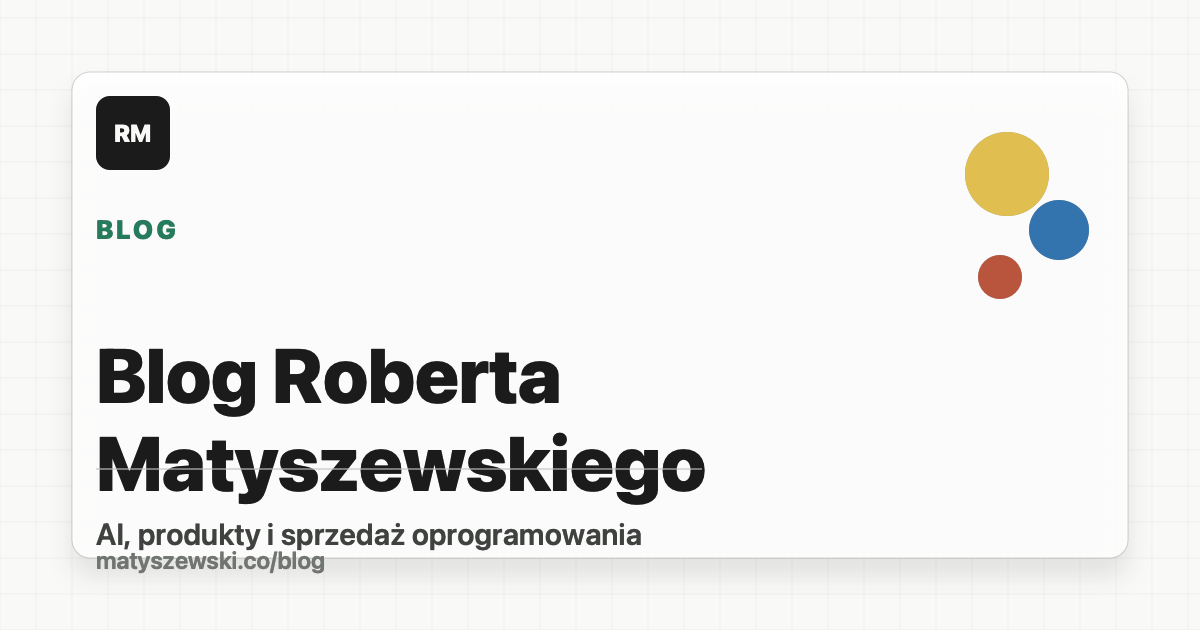
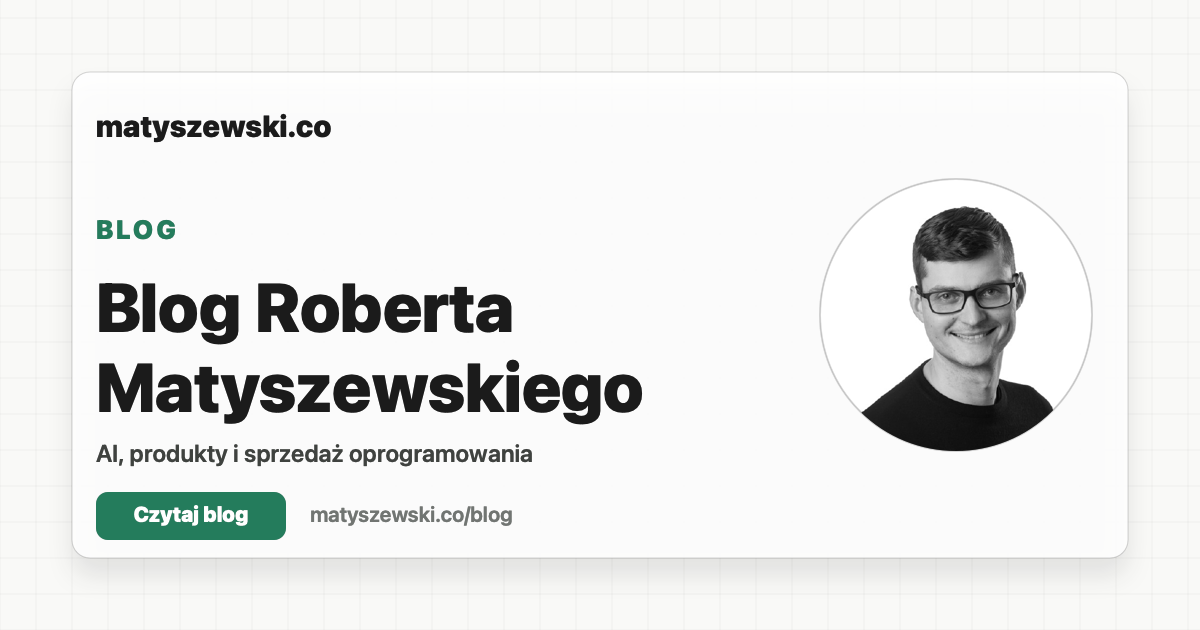
Ulepsz karty Open Graph bloga
## Nowe pliki:
- "robert-matyszewski-profile.png" - lokalne zdjęcie profilowe używane przez generator kart.

## Zmodyfikowane:
- "generate-blog-preview.swift" - usuwa etykietę i opisy z kart wpisów, dodaje domenę, większy portret oraz CTA w wyrównanym układzie.
- "blog-preview oraz karty wpisów" - przegenerowane pliki PNG i SVG w rozmiarze 1200x630.

Statystyki: +1 nowy, ~7 zmodyfikowanych, -0 usuniętych

Changed region(s): [[0.0617, 0.4524, 0.5858, 0.9048], [0.7092, 0.2111, 0.925, 0.7238], [0.0617, 0.1508, 0.2775, 0.2714]]

diff --git a/scripts/generate-blog-preview.swift b/scripts/generate-blog-preview.swift
@@ -258,15 +258,26 @@ func svgTextLines(_ lines: [String], fontSize: Int, top: Int, spacing: Int) -> S
     }.joined(separator: "\n")
 }
 
-func generateSocialCard(title: String, description: String, outputBaseName: String, footerUrl: String, label: String = "BLOG") throws {
+func generateSocialCard(
+    title: String,
+    description: String,
+    outputBaseName: String,
+    footerUrl: String,
+    label: String? = "BLOG",
+    showsSubtitle: Bool = true
+) throws {
     let lines = titleLines(title)
-    let fontSize = lines.count >= 3 ? 54 : 76
-    let firstTextTop = lines.count >= 3 ? 274 : 330
-    let lineSpacing = lines.count >= 3 ? 62 : 88
-    let dividerTop = lines.count >= 3 ? 472 : 468
-    let descriptionTop = lines.count >= 3 ? 494 : 516
-    let footerTop = lines.count >= 3 ? 528 : 546
-    let subtitle = shortDescription(description)
+    let fontSize = lines.count >= 3 ? 54 : (lines.count == 2 ? 68 : 76)
+    let firstTextTop: Int
+    if showsSubtitle {
+        firstTextTop = lines.count >= 3 ? 274 : (lines.count == 2 ? 266 : 326)
+    } else {
+        firstTextTop = lines.count >= 3 ? 222 : (lines.count == 2 ? 235 : 277)
+    }
+    let lineSpacing = lines.count >= 3 ? 62 : 80
+    let ctaTop = showsSubtitle ? 492 : 482
+    let subtitle = showsSubtitle ? shortDescription(description) : nil
+    let profileImageName = "robert-matyszewski-profile.png"
 
     let svg = """
 <svg xmlns="http://www.w3.org/2000/svg" width="1200" height="630" viewBox="0 0 1200 630">
@@ -277,21 +288,23 @@ func generateSocialCard(title: String, description: String, outputBaseName: Stri
     <filter id="shadow" x="-20%" y="-20%" width="140%" height="140%">
       <feDropShadow dx="0" dy="20" stdDeviation="24" flood-color="#151515" flood-opacity="0.14"/>
     </filter>
+    <clipPath id="profile-clip">
+      <circle cx="956" cy="315" r="136"/>
+    </clipPath>
   </defs>
 
   <rect width="1200" height="630" fill="#f8f8f5"/>
   <rect width="1200" height="630" fill="url(#grid)"/>
   <rect x="72" y="72" width="1056" height="486" rx="18" fill="#ffffff" fill-opacity="0.88" stroke="#151515" stroke-opacity="0.14" filter="url(#shadow)"/>
-  <rect x="96" y="96" width="74" height="74" rx="14" fill="#151515"/>
-  <text x="133" y="143" fill="#f8f8f5" font-family="Inter, Arial, sans-serif" font-size="24" font-weight="800" text-anchor="middle">RM</text>
-  <text x="96" y="236" fill="#1f6b4a" font-family="Inter, Arial, sans-serif" font-size="26" font-weight="800" letter-spacing="3">\(escapeHtml(label))</text>
+  <text x="96" y="142" fill="#151515" font-family="Inter, Arial, sans-serif" font-size="30" font-weight="800">matyszewski.co</text>
+  <image href="\(profileImageName)" x="820" y="179" width="272" height="272" preserveAspectRatio="xMidYMid slice" clip-path="url(#profile-clip)"/>
+  <circle cx="956" cy="315" r="136" fill="none" stroke="#151515" stroke-opacity="0.14" stroke-width="2"/>
+\(label.map { ##"  <text x="96" y="236" fill="#1f6b4a" font-family="Inter, Arial, sans-serif" font-size="26" font-weight="800" letter-spacing="3">\##(escapeHtml($0))</text>"## } ?? "")
 \(svgTextLines(lines, fontSize: fontSize, top: firstTextTop, spacing: lineSpacing))
-  <rect x="96" y="\(dividerTop)" width="606" height="1" fill="#d8ddd6"/>
-  <text x="96" y="\(descriptionTop)" fill="#303330" font-family="Inter, Arial, sans-serif" font-size="30" font-weight="600">\(escapeHtml(subtitle))</text>
-  <text x="96" y="\(footerTop)" fill="#5e625f" font-family="Inter, Arial, sans-serif" font-size="24" font-weight="600">\(escapeHtml(footerUrl))</text>
-  <circle cx="1007" cy="174" r="42" fill="#d8b23f"/>
-  <circle cx="1059" cy="230" r="30" fill="#285f9f"/>
-  <circle cx="1000" cy="277" r="22" fill="#a9412f"/>
+\(subtitle.map { ##"  <text x="96" y="466" fill="#303330" font-family="Inter, Arial, sans-serif" font-size="24" font-weight="600">\##(escapeHtml($0))</text>"## } ?? "")
+  <rect x="96" y="\(ctaTop)" width="190" height="48" rx="12" fill="#1f6b4a"/>
+  <text x="191" y="\(ctaTop + 31)" fill="#ffffff" font-family="Inter, Arial, sans-serif" font-size="21" font-weight="800" text-anchor="middle">Czytaj blog</text>
+  <text x="310" y="\(ctaTop + 31)" fill="#5e625f" font-family="Inter, Arial, sans-serif" font-size="21" font-weight="600">\(escapeHtml(footerUrl))</text>
 </svg>
 """
 
@@ -304,9 +317,8 @@ func generateSocialCard(title: String, description: String, outputBaseName: Stri
         fontSize: CGFloat(fontSize),
         firstTextTop: CGFloat(firstTextTop),
         lineSpacing: CGFloat(lineSpacing),
-        dividerTop: CGFloat(dividerTop),
-        descriptionTop: CGFloat(descriptionTop),
-        footerTop: CGFloat(footerTop),
+        ctaTop: CGFloat(ctaTop),
+        profileImage: socialDir.appendingPathComponent(profileImageName),
         output: socialDir.appendingPathComponent("\(outputBaseName).png")
     )
 }
@@ -322,15 +334,14 @@ func color(_ hex: UInt32, _ alpha: CGFloat = 1.0) -> NSColor {
 
 func renderPngCard(
     titleLines: [String],
-    subtitle: String,
+    subtitle: String?,
     footerUrl: String,
-    label: String,
+    label: String?,
     fontSize: CGFloat,
     firstTextTop: CGFloat,
     lineSpacing: CGFloat,
-    dividerTop: CGFloat,
-    descriptionTop: CGFloat,
-    footerTop: CGFloat,
+    ctaTop: CGFloat,
+    profileImage: URL,
     output: URL
 ) throws {
     let width: CGFloat = 1200
@@ -420,36 +431,45 @@ func renderPngCard(
     card.lineWidth = 1
     card.stroke()
 
-    let mark = NSBezierPath(
-        roundedRect: NSRect(x: 96, y: topY(96, 74), width: 74, height: 74),
-        xRadius: 14,
-        yRadius: 14
-    )
-    color(0x151515).setFill()
-    mark.fill()
-    drawText("RM", x: 96, top: 119, w: 74, h: 30, size: 24, weight: .heavy, fill: color(0xf8f8f5), alignment: .center)
+    drawText("matyszewski.co", x: 96, top: 108, w: 360, h: 42, size: 30, weight: .heavy, fill: color(0x151515))
 
-    drawText(label, x: 96, top: 214, w: 240, h: 34, size: 26, weight: .heavy, fill: color(0x1f6b4a), spacing: 3)
+    guard let portrait = NSImage(contentsOf: profileImage) else {
+        throw NSError(
+            domain: "SocialCard",
+            code: 1,
+            userInfo: [NSLocalizedDescriptionKey: "Could not load profile image at \(profileImage.path)"]
+        )
+    }
+    let portraitRect = NSRect(x: 820, y: topY(179, 272), width: 272, height: 272)
+    NSGraphicsContext.saveGraphicsState()
+    NSBezierPath(ovalIn: portraitRect).addClip()
+    portrait.draw(in: portraitRect, from: .zero, operation: .sourceOver, fraction: 1)
+    NSGraphicsContext.restoreGraphicsState()
+    color(0x151515, 0.14).setStroke()
+    let portraitBorder = NSBezierPath(ovalIn: portraitRect)
+    portraitBorder.lineWidth = 2
+    portraitBorder.stroke()
+
+    if let label {
+        drawText(label, x: 96, top: 214, w: 240, h: 34, size: 26, weight: .heavy, fill: color(0x1f6b4a), spacing: 3)
+    }
     for (index, line) in titleLines.enumerated() {
-        drawText(line, x: 96, top: firstTextTop + (CGFloat(index) * lineSpacing), w: 920, h: lineSpacing, size: fontSize, weight: .heavy, fill: color(0x151515))
+        drawText(line, x: 96, top: firstTextTop + (CGFloat(index) * lineSpacing), w: 690, h: lineSpacing, size: fontSize, weight: .heavy, fill: color(0x151515))
     }
 
-    color(0xd8ddd6).setStroke()
-    let divider = NSBezierPath()
-    divider.move(to: NSPoint(x: 96, y: topY(dividerTop, 1)))
-    divider.line(to: NSPoint(x: 702, y: topY(dividerTop, 1)))
-    divider.lineWidth = 1
-    divider.stroke()
+    if let subtitle {
+        drawText(subtitle, x: 96, top: 439, w: 820, h: 34, size: 24, weight: .semibold, fill: color(0x303330))
+    }
 
-    drawText(subtitle, x: 96, top: descriptionTop, w: 820, h: 42, size: 30, weight: .semibold, fill: color(0x303330))
-    drawText(footerUrl, x: 96, top: footerTop, w: 520, h: 32, size: 24, weight: .semibold, fill: color(0x5e625f))
-
-    color(0xd8b23f).setFill()
-    NSBezierPath(ovalIn: NSRect(x: 965, y: topY(132, 84), width: 84, height: 84)).fill()
-    color(0x285f9f).setFill()
-    NSBezierPath(ovalIn: NSRect(x: 1029, y: topY(200, 60), width: 60, height: 60)).fill()
-    color(0xa9412f).setFill()
-    NSBezierPath(ovalIn: NSRect(x: 978, y: topY(255, 44), width: 44, height: 44)).fill()
+    let cta = NSBezierPath(
+        roundedRect: NSRect(x: 96, y: topY(ctaTop, 48), width: 190, height: 48),
+        xRadius: 12,
+        yRadius: 12
+    )
+    color(0x1f6b4a).setFill()
+    cta.fill()
+    drawText("Czytaj blog", x: 96, top: ctaTop + 10, w: 190, h: 28, size: 21, weight: .heavy, fill: color(0xffffff), alignment: .center)
+    drawText(footerUrl, x: 310, top: ctaTop + 10, w: 470, h: 28, size: 21, weight: .semibold, fill: color(0x5e625f))
 
     NSGraphicsContext.restoreGraphicsState()
 
@@ -583,7 +603,14 @@ try generateSocialCard(title: blogTitle, description: blogDescription, outputBas
 
 for post in posts {
     let markdown = try String(contentsOf: postsDir.appendingPathComponent(post.file), encoding: .utf8)
-    try generateSocialCard(title: post.title, description: post.description, outputBaseName: post.slug, footerUrl: "matyszewski.co/blog", label: "WPIS")
+    try generateSocialCard(
+        title: post.title,
+        description: post.description,
+        outputBaseName: post.slug,
+        footerUrl: "matyszewski.co/blog",
+        label: nil,
+        showsSubtitle: false
+    )
     try renderPostPage(post: post, markdown: markdown)
 }
 
